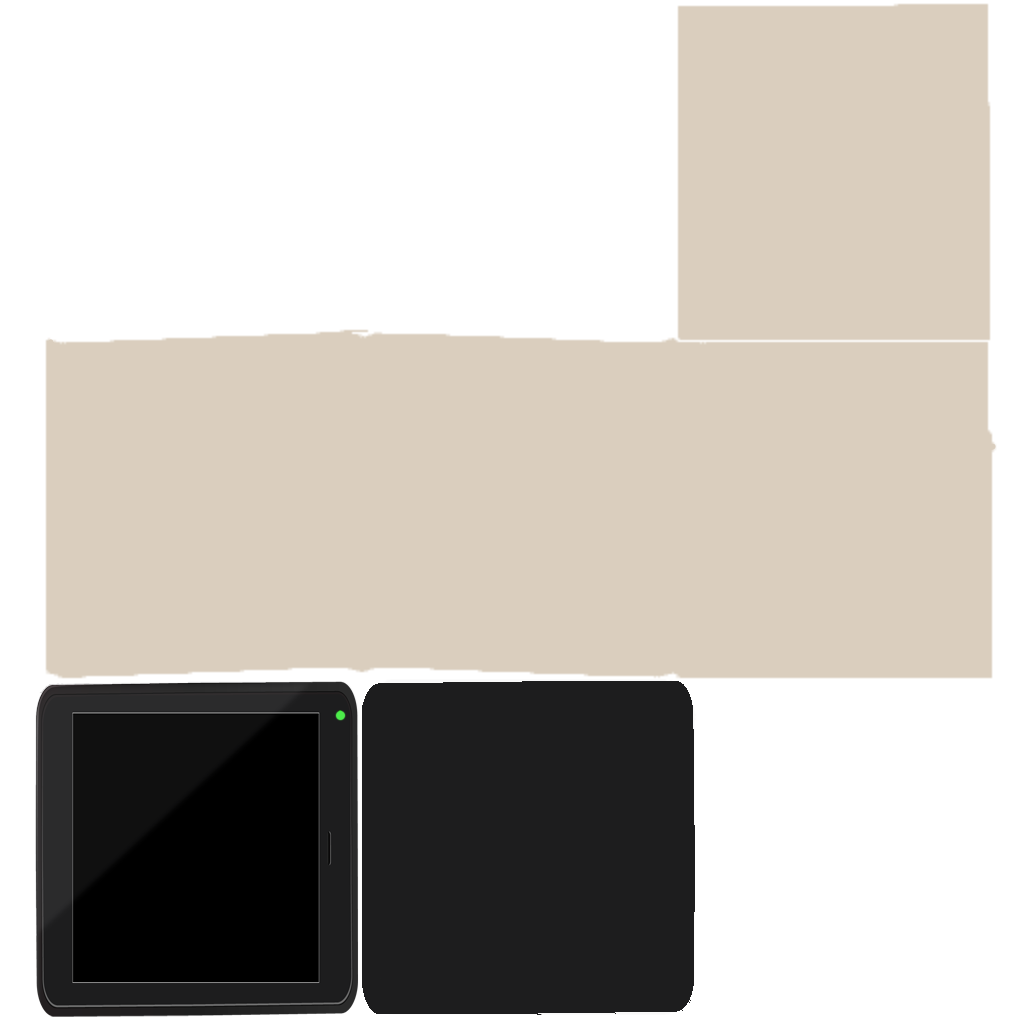
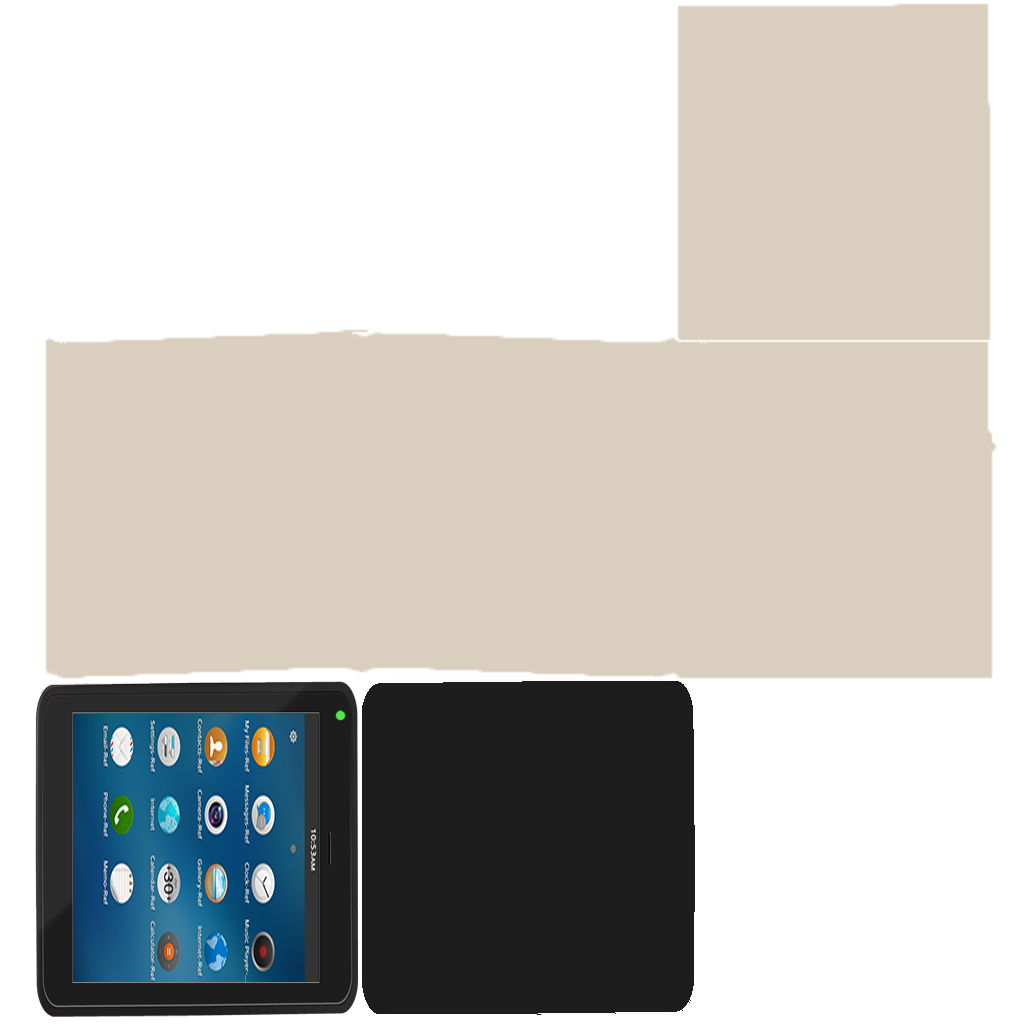
TDIS-4450: Added screenshot to the 3D model in accelerometer. Fixed system setting initial bug on System Summary Panel.

Changed region(s): [[0.0625, 0.6875, 0.3125, 0.9688]]

diff --git a/lib/ripple/ui/plugins/information.js b/lib/ripple/ui/plugins/information.js
@@ -27,7 +27,7 @@ function _updateInformationView() {
         device = devices.getCurrentDevice(),
         tempString = "",
         widgetInfo = app.getInfo(),
-        _systemSettings = db.retrieveObject("tizen2-systemsetting") ||  {"HOME_SCREEN": "", "LOCK_SCREEN": "", "": "INCOMING_CALL", "NOTIFICATION_EMAIL": ""};
+        _systemSettings = db.retrieveObject("tizen2-systemsetting") || {"HOME_SCREEN": "", "LOCK_SCREEN": "", "INCOMING_CALL": "", "NOTIFICATION_EMAIL": ""};
 
     //TODO: refactor this stuff to grab info from API, do this in a loop rather then hardcoded. Better DOM injection approach. This is legacy code
 
